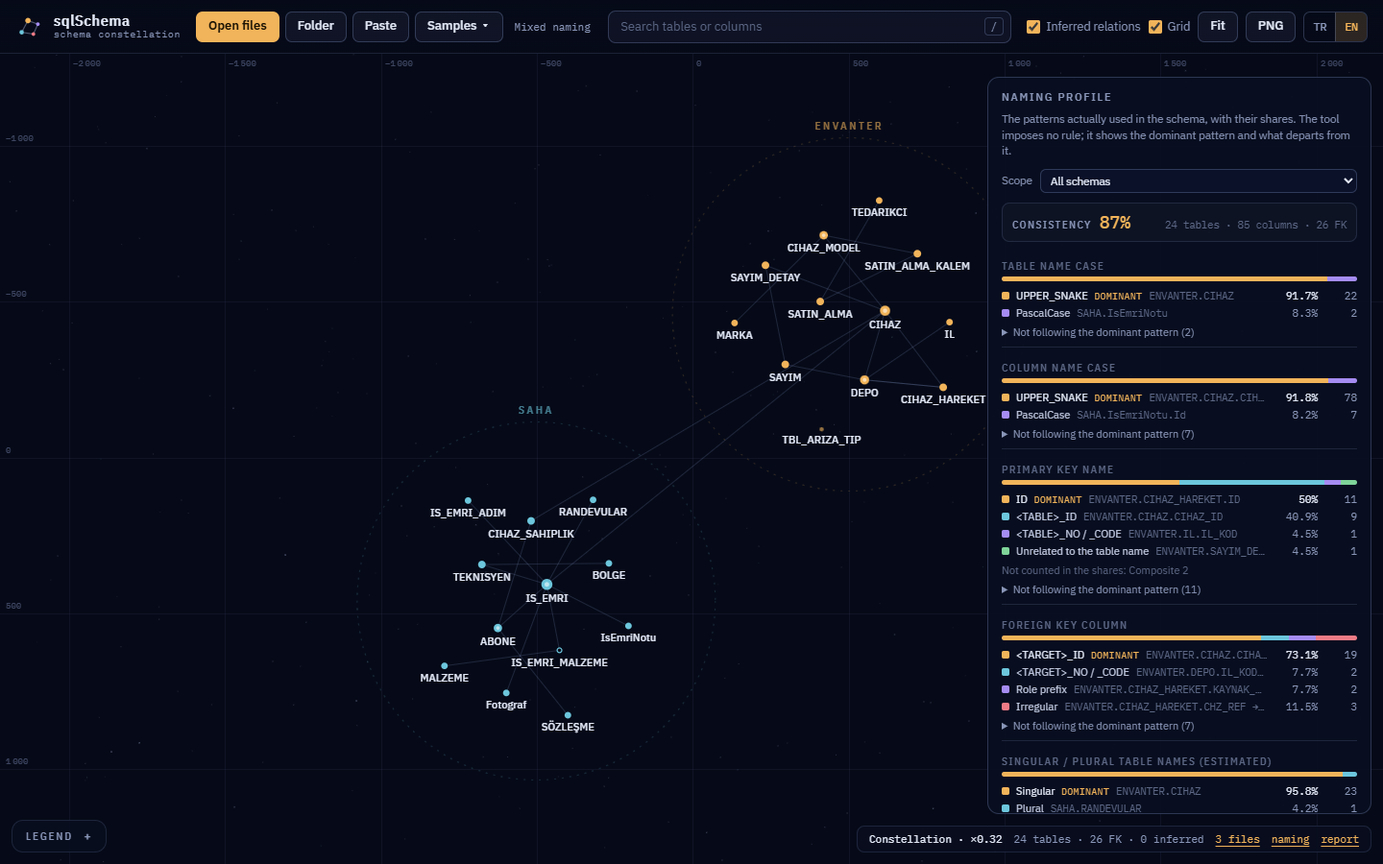
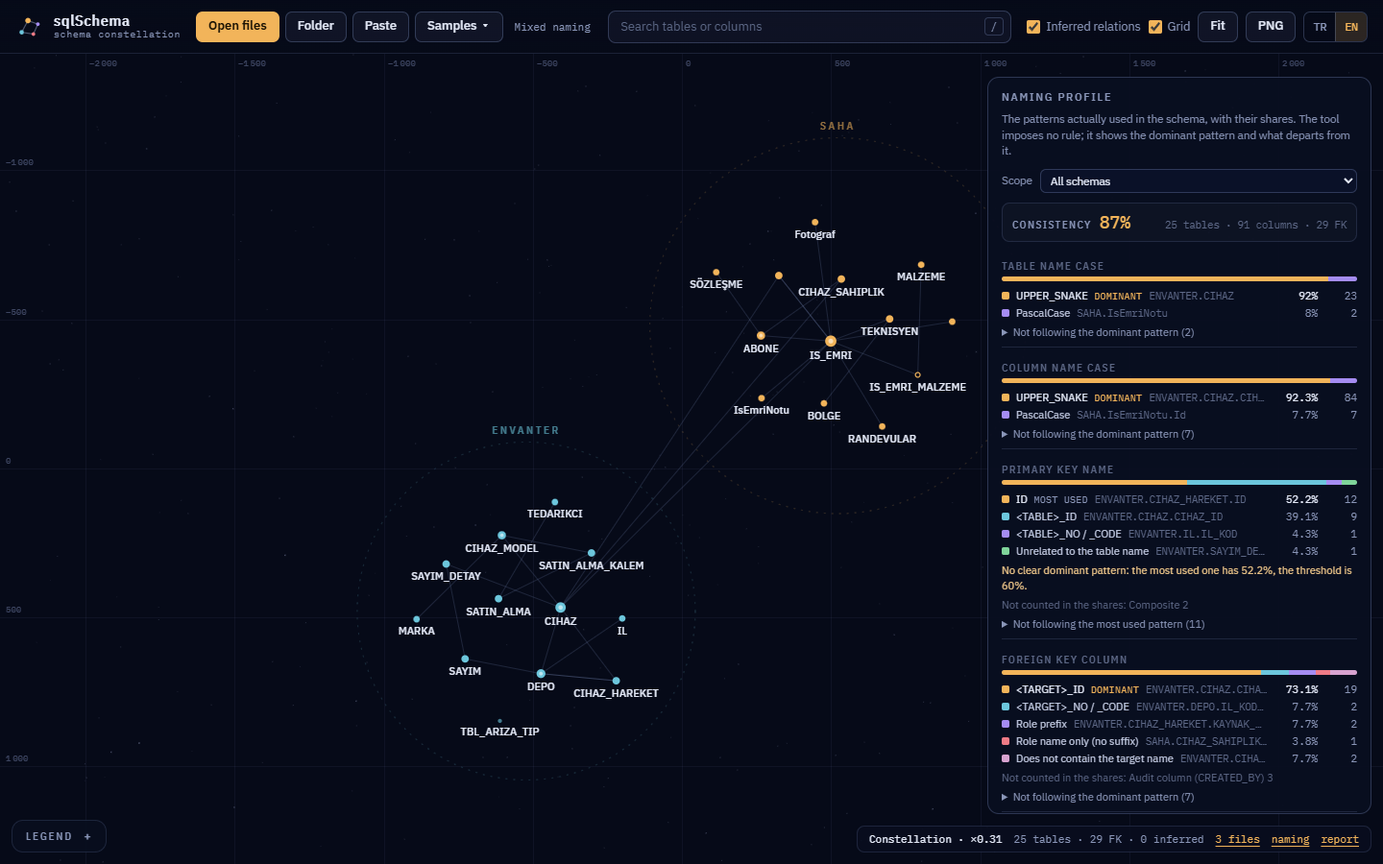
Adlandırma profili: denetim kolonları, rol adları, baskınlık eşiği
- CREATED_BY, UPDATED_BY, GUNCELLEYEN gibi denetim kolonları ayrı
  sayılır ve FK oranına katılmaz (kullanıcı geri bildirimi)
- "Kuralsız" grubu ikiye ayrıldı: yalnızca rol adı (SAHIBI) ve hedef
  adını içermeyen (CHZ_REF)
- Hedefin son kelimesini taşıyan FK'ler rol önekli sayılır
  (AGENT_USER_ID → APP_USER); telekomdaki 25 yanlış "kuralsız" gitti
- En çok kullanılan kalıbın payı %60'ın altındaysa "belirgin baskın
  kalıp yok" gösterilir
- Karışık adlandırma örneğine kullanıcı tablosu ve denetim kolonları

diff --git a/js/conventions.js b/js/conventions.js
@@ -7,14 +7,18 @@
  * Boyutlar ve kovalar (sıra, gösterim sırasıdır):
  *   tableCase / columnCase   upperSnake  lowerSnake  pascal  camel  mixed
  *   pkStyle                  id  tableId  tableOther  other  | shared  composite  none (nötr)
- *   fkStyle                  targetId  targetOther  role  samePk  other     (yalnızca tanımlı, tek kolonlu FK)
+ *   fkStyle                  targetId  targetOther  role  samePk  roleOnly  other  | audit (nötr)
+ *                            (yalnızca tanımlı, tek kolonlu FK)
  *   tableNumber              singular  plural
  *   prefix                   plain  prefixed                                (TBL_, T_, tbl...)
  *   charset                  ascii  nonAscii                                (tablo ve kolon adları)
  *   length                   short  long                                    (30 karakter: eski Oracle sınırı)
  *
- * Nötr kovalar orana ve baskınlığa katılmaz: bileşik PK ve üst tablodan gelen PK (1:1) bir
- * adlandırma tercihi değildir, PK'siz tablo ise denetimin konusudur.
+ * Nötr kovalar orana ve baskınlığa katılmaz: bileşik PK, üst tablodan gelen PK (1:1) ve
+ * CREATED_BY gibi denetim kolonları bir adlandırma tercihi değildir, PK'siz tablo ise denetimin konusudur.
+ *
+ * En çok kullanılan kalıbın payı CLEAR_AT'in altındaysa (%51'e %49 gibi) kalıp "baskın" sayılmaz:
+ * clear: false döner ve arayüz "belirgin baskın kalıp yok" der.
  */
 (function (NS) {
 'use strict';
@@ -26,12 +30,21 @@ const norm = s => U(s).replace(/[^\p{L}\p{N}]/gu, '');
 const PREFIX = /^(TBL|TB|TAB|T)_|^tbl(?=\p{Lu})/iu;
 const OTHER_SUFFIX = /(NO|NUM|NR|KOD|KODU|CODE|CD|KEY|REF)$/;
 const NAME_LIMIT = 30;
+const CLEAR_AT = 0.6;
+
+// Kaydı kimin açtığını / değiştirdiğini tutan kolonlar: hedef tablo adı geçmese de yerleşik bir kalıptır
+const TR_FOLD = { '\xC7': 'C', '\u{11E}': 'G', '\u{130}': 'I', '\xD6': 'O', '\u{15E}': 'S', '\xDC': 'U' };
+const AUDIT = new RegExp([
+  '^(CREATED|CREATE|CREATOR|CRE|UPDATED|UPDATE|UPDATER|UPD|MODIFIED|MODIFY|CHANGED|INSERTED|INSERT|INS|LASTUPDATED|LASTMODIFIED|LASTCHANGED|DELETED|APPROVED)(BY|BYUSER|USER|USR)(ID|NO|CODE)?$',
+  '^(KAYITKULLANICI|KAYITEDEN|KAYDEDEN|EKLEYEN|OLUSTURAN|GUNCELLEYEN|SONGUNCELLEYEN|DEGISTIREN|SILEN|ONAYLAYAN)(KULLANICI)?(ID|NO|KOD|SICIL|SICILNO)?$',
+].join('|'));
+const isAudit = col => AUDIT.test(norm(col).replace(/[\xC7\u{11E}\u{130}\xD6\u{15E}\xDC]/gu, ch => TR_FOLD[ch]));
 
 const DIMS = {
   tableCase: { keys: ['upperSnake', 'lowerSnake', 'pascal', 'camel', 'mixed'] },
   columnCase: { keys: ['upperSnake', 'lowerSnake', 'pascal', 'camel', 'mixed'] },
   pkStyle: { keys: ['id', 'tableId', 'tableOther', 'other', 'shared', 'composite', 'none'], neutral: ['shared', 'composite', 'none'] },
-  fkStyle: { keys: ['targetId', 'targetOther', 'role', 'samePk', 'other'] },
+  fkStyle: { keys: ['targetId', 'targetOther', 'role', 'samePk', 'roleOnly', 'other', 'audit'], neutral: ['audit'] },
   tableNumber: { keys: ['singular', 'plural'] },
   prefix: { keys: ['plain', 'prefixed'] },
   charset: { keys: ['ascii', 'nonAscii'] },
@@ -73,9 +86,17 @@ function nameForms(name) {
   return [...forms].filter(Boolean);
 }
 
+// Tablo adının son kelimeleri: rol önekli FK'lerde hedefin yalnızca son kelimesi geçer (AGENT_USER_ID → APP_USER)
+function tailsOf(name) {
+  const words = String(name).replace(PREFIX, '').split(/_|(?=\p{Lu}\p{Ll})/u).filter(Boolean);
+  const tails = [];
+  for (let i = 1; i < words.length; i++) tails.push(...nameForms(words.slice(i).join('_')));
+  return tails.filter(f => f.length >= 3);
+}
+
 // Kolon adının kalıbı: tablo adı + ID / NO / KOD..., rol önekli hâli ya da hiçbiri.
 // Tablo adının son kelimeleri de kabul edilir: HASAR_DOSYA.DOSYA_NO, TROUBLE_TICKET.TICKET_ID
-function stemMatch(col, forms) {
+function stemMatch(col, forms, tails = []) {
   const c = norm(col);
   let suffix = null, stem = null;
   if (/ID$/.test(c) && c.length > 2) { suffix = 'id'; stem = c.slice(0, -2); }
@@ -83,9 +104,9 @@ function stemMatch(col, forms) {
     const m = OTHER_SUFFIX.exec(c);
     if (m && c.length > m[1].length) { suffix = 'other'; stem = c.slice(0, -m[1].length); }
   }
-  if (!stem) return null;
+  if (!stem) return null;   // anahtar eki yok (SAHIBI, ASSIGNED_TO)
   if (forms.some(f => f === stem || (stem.length >= 3 && f.endsWith(stem)))) return { suffix, stem, exact: true };
-  if (forms.some(f => f.length >= 3 && stem.endsWith(f))) return { suffix, stem, exact: false };
+  if (forms.concat(tails).some(f => f.length >= 3 && stem.endsWith(f))) return { suffix, stem, exact: false };
   return { suffix, stem, exact: null };
 }
 
@@ -105,21 +126,24 @@ function pkStyleOf(tb) {
 
 function fkStyleOf(r) {
   const col = r.cols[0], parent = r.parent;
-  const m = stemMatch(col, nameForms(parent.name));
+  if (isAudit(col)) return 'audit';
+  const m = stemMatch(col, nameForms(parent.name), tailsOf(parent.name));
   if (m && m.exact) return m.suffix === 'id' ? 'targetId' : 'targetOther';
   // kendine başvuran kolonda rol adı olağandır: PARENT_ID, MANAGER_ID, UST_BIRIM_ID
   if ((m && m.exact === false) || (m && r.self)) return 'role';
   if (parent.pk.length === 1 && U(parent.pk[0]) === U(col)) return 'samePk';
-  return 'other';
+  // anahtar eki yoksa ad yalnızca rolü söyler (SAHIBI → ABONE); ek varken hedef tutmuyorsa kuralsızdır (CHZ_REF → CIHAZ)
+  return m ? 'other' : 'roleOnly';
 }
 
 /*
- * opts.filter: tablo → boolean (ör. tek bir şema). Dönen nesne:
- *   { tables, columns, fks, score, dims: [{ id, total, dominant, share, buckets: [{ key, n, pct, neutral, items }], outliers }] }
+ * opts.filter: tablo → boolean (ör. tek bir şema); opts.clearAt: belirgin baskınlık eşiği (0.6). Dönen nesne:
+ *   { tables, columns, fks, score, clearAt, dims: [{ id, total, dominant, share, clear, buckets: [{ key, n, pct, neutral, items }], outliers }] }
  * items: [{ t: tablo, c: kolon adı | null, ref: hedef tablo (FK için) }]
  */
 function namingProfile(model, opts = {}) {
   const keep = opts.filter || (() => true);
+  const clearAt = opts.clearAt || CLEAR_AT;
   // Dış ve gömülü tablolar dosyada tanımlı değil; MongoDB'de _id ve ref alanları adlandırma tercihi değildir
   const tables = model.tables.filter(tb => !tb.external && !tb.embedded && keep(tb));
   const sqlTables = tables.filter(tb => tb.dialect !== 'mongodb');
@@ -162,13 +186,14 @@ function namingProfile(model, opts = {}) {
     let dom = null;
     for (const b of counted) if (b.n && (!dom || b.n > dom.n)) dom = b;
     const outliers = dom ? counted.filter(b => b !== dom).flatMap(b => b.items) : [];
-    dims.push({ id, total, dominant: dom ? dom.key : null, share: dom ? dom.n / total : null, buckets, outliers });
+    const share = dom ? dom.n / total : null;
+    dims.push({ id, total, dominant: dom ? dom.key : null, share, clear: dom ? share >= clearAt : false, buckets, outliers });
   }
   // Tutarlılık: her boyutta baskın kalıba uyanların oranının ortalaması (boş boyutlar hariç)
   const scored = dims.filter(d => d.total);
   const score = scored.length ? Math.round(scored.reduce((s, d) => s + d.share, 0) / scored.length * 100) : null;
-  return { tables: tables.length, columns, fks, score, dims, nameLimit: NAME_LIMIT };
+  return { tables: tables.length, columns, fks, score, dims, nameLimit: NAME_LIMIT, clearAt };
 }
 
-Object.assign(NS, { namingProfile, caseOf, isPlural, pkStyleOf, fkStyleOf });
+Object.assign(NS, { namingProfile, caseOf, isPlural, isAudit, pkStyleOf, fkStyleOf });
 })(globalThis.sqlSchema = globalThis.sqlSchema || {});

diff --git a/tests/run.js b/tests/run.js
@@ -82,6 +82,8 @@ const EXPECT = {
     check('telekom: 350+ FK', m.stats.fk >= 350, m.stats.fk);
     check('telekom: PL/SQL paketi atlandı', m.stats.skipped.some(([k]) => k === 'CREATE PACKAGE'));
     check('telekom: CRM takımyıldızlara bölündü', m.tables.find(t => t.schema === 'CRM').schemaRef.groups.length > 1);
+    const fk = dim(NS.namingProfile(m), 'fkStyle');
+    check('telekom: AGENT_USER_ID → APP_USER rol önekli sayılır, hedef adını içermeyen FK yok', !fk.other && fk.role >= 50 && fk.audit === 2, fk);
   },
   'telekom-bolunmus'({ model: m }, all) {
     const one = all.telekom.model.stats;
@@ -173,14 +175,18 @@ const EXPECT = {
   },
   karisik({ model: m }) {
     const p = NS.namingProfile(m);
-    check('karisik: 24 tablo, 26 FK', p.tables === 24 && p.fks === 26, [p.tables, p.fks]);
-    check('karisik: PK %50 ID, %40.9 <TABLO>_ID', same(dim(p, 'pkStyle'), { id: 11, tableId: 9, tableOther: 1, other: 1, composite: 2 }), dim(p, 'pkStyle'));
-    check('karisik: PK baskın stil ID', p.dims.find(d => d.id === 'pkStyle').dominant === 'id');
-    check('karisik: FK stilleri', same(dim(p, 'fkStyle'), { targetId: 19, targetOther: 2, role: 2, other: 3 }), dim(p, 'fkStyle'));
-    const irregular = p.dims.find(d => d.id === 'fkStyle').buckets.find(b => b.key === 'other').items.map(i => i.c).sort();
-    check('karisik: kuralsız FK\'ler bulundu', same(irregular, ['CHZ_REF', 'DEVICE_REF', 'SAHIBI']), irregular);
-    check('karisik: ORM tabloları PascalCase', same(dim(p, 'tableCase'), { upperSnake: 22, pascal: 2 }) && dim(p, 'columnCase').pascal === 7, [dim(p, 'tableCase'), dim(p, 'columnCase')]);
-    check('karisik: Türkçe çoğul, TBL_ öneki', same(dim(p, 'tableNumber'), { singular: 23, plural: 1 }) && same(dim(p, 'prefix'), { plain: 23, prefixed: 1 }));
+    check('karisik: 25 tablo, 29 FK', p.tables === 25 && p.fks === 29, [p.tables, p.fks]);
+    check('karisik: PK %52 ID, %39 <TABLO>_ID', same(dim(p, 'pkStyle'), { id: 12, tableId: 9, tableOther: 1, other: 1, composite: 2 }), dim(p, 'pkStyle'));
+    const pkDim = p.dims.find(d => d.id === 'pkStyle');
+    check('karisik: PK\'de en çok ID ama belirgin baskın değil (%60 altı)', pkDim.dominant === 'id' && !pkDim.clear, [pkDim.dominant, pkDim.share]);
+    check('karisik: FK stilleri', same(dim(p, 'fkStyle'), { targetId: 19, targetOther: 2, role: 2, roleOnly: 1, other: 2, audit: 3 }), dim(p, 'fkStyle'));
+    check('karisik: FK\'de <HEDEF>_ID belirgin baskın', p.dims.find(d => d.id === 'fkStyle').clear);
+    const fkItems = key => p.dims.find(d => d.id === 'fkStyle').buckets.find(b => b.key === key).items.map(i => i.c).sort();
+    check('karisik: hedef adını içermeyen FK\'ler', same(fkItems('other'), ['CHZ_REF', 'DEVICE_REF']), fkItems('other'));
+    check('karisik: yalnızca rol adı', same(fkItems('roleOnly'), ['SAHIBI']), fkItems('roleOnly'));
+    check('karisik: denetim kolonları orana katılmaz', same(fkItems('audit'), ['CREATED_BY', 'GUNCELLEYEN', 'UPDATED_BY']) && !p.dims.find(d => d.id === 'fkStyle').outliers.some(i => fkItems('audit').includes(i.c)), fkItems('audit'));
+    check('karisik: ORM tabloları PascalCase', same(dim(p, 'tableCase'), { upperSnake: 23, pascal: 2 }) && dim(p, 'columnCase').pascal === 7, [dim(p, 'tableCase'), dim(p, 'columnCase')]);
+    check('karisik: Türkçe çoğul, TBL_ öneki', same(dim(p, 'tableNumber'), { singular: 24, plural: 1 }) && same(dim(p, 'prefix'), { plain: 24, prefixed: 1 }));
     check('karisik: ASCII dışı ve 30+ karakter adlar', dim(p, 'charset').nonAscii === 3 && dim(p, 'length').long === 1, [dim(p, 'charset'), dim(p, 'length')]);
     const env = NS.namingProfile(m, { filter: t => t.schema === 'ENVANTER' }), saha = NS.namingProfile(m, { filter: t => t.schema === 'SAHA' });
     check('karisik: şema bazında ENVANTER <TABLO>_ID, SAHA ID', env.dims.find(d => d.id === 'pkStyle').dominant === 'tableId' && saha.dims.find(d => d.id === 'pkStyle').dominant === 'id');
@@ -223,6 +229,10 @@ const one = sql => build([{ path: 'x.sql', text: sql }]).model;
   const single = ['STATUS', 'ADDRESS', 'ANALYSIS', 'SMS', 'Biller', 'SELLER', 'HANDLER', 'DEALER', 'CUSTOMER', 'MALZEME'];
   const bad = plural.filter(n => !NS.isPlural(n)).concat(single.filter(n => NS.isPlural(n)));
   check('çoğul tahmini', !bad.length, bad);
+  const audit = ['CREATED_BY', 'updated_by', 'createdBy', 'LAST_UPDATED_BY', 'INS_USER', 'CREATED_USER_ID', 'CHANGED_BY_USER_ID', 'KAYIT_KULLANICI', 'GUNCELLEYEN', 'GÜNCELLEYEN', 'OLUŞTURAN_SICIL_NO', 'DEĞİŞTİREN'];
+  const notAudit = ['CUSTOMER_ID', 'KAYIT_TAR', 'CREATED_AT', 'SAHIBI', 'USER_ID', 'KAYIT_NO'];
+  const badAudit = audit.filter(n => !NS.isAudit(n)).concat(notAudit.filter(n => NS.isAudit(n)));
+  check('denetim kolonu tanıma', !badAudit.length, badAudit);
 }
 
 // Dil desteği: iki sözlük aynı anahtarlara sahip, HTML ve kodda kullanılan her anahtar tanımlı

diff --git a/js/ui.js b/js/ui.js
@@ -306,6 +306,10 @@ const schemaKey = s => s.db.name + '|' + s.name;
 const scopeLabel = s => (S.lay.dbs.length > 1 ? s.db.label + ' / ' : '') + schemaLabel(s);
 const fmtPct = n => t('pct', { n: n.toLocaleString(NS.getLang(), { maximumFractionDigits: 1 }) });
 const bucketLabel = (d, b, lim) => t('nk_' + d.id + '_' + b.key, { n: lim });
+// Payı eşiğin altındaysa en çok kullanılan kalıp "baskın" değil, yalnızca "en çok" olarak yazılır
+const topWord = d => t(d.clear ? 'namingDominant' : 'namingTop');
+const outliersTitle = d => t(d.clear ? 'namingOutliers' : 'namingOutliersTop', { n: d.outliers.length });
+const noClearNote = (d, p) => t('namingNoClear', { share: fmtPct(Math.round(d.share * 1000) / 10), at: fmtPct(Math.round(p.clearAt * 100)) });
 // Örnek ve sapan adlar: TABLO.KOLON, FK'de hedefle birlikte; şema yalnızca birden fazla şema varsa yazılır
 function itemName(it) {
   const tb = it.t;
@@ -337,13 +341,14 @@ function renderNaming() {
     const rows = counted.map(b => {
       const dom = b.key === d.dominant;
       return `<li class="${dom ? 'dom' : ''}" ${b.items[0] ? `data-go="${esc(b.items[0].t.key)}" data-col="${esc(b.items[0].c || '')}"` : ''}>
-        <i class="sw c${color.get(b.key)}"></i><span class="nl">${esc(bucketLabel(d, b, p.nameLimit))}${dom && counted.length > 1 ? ` <em>${esc(t('namingDominant'))}</em>` : ''}</span>
+        <i class="sw c${color.get(b.key)}"></i><span class="nl">${esc(bucketLabel(d, b, p.nameLimit))}${dom && counted.length > 1 ? ` <em class="${d.clear ? '' : 'weak'}">${esc(topWord(d))}</em>` : ''}</span>
         <span class="ex" title="${esc(itemName(b.items[0]))}">${esc(itemName(b.items[0]))}</span><b>${esc(fmtPct(b.pct))}</b><b>${b.n}</b></li>`;
     }).join('');
     const extra = neutral.length ? `<p class="nn">${esc(t('namingNotCounted'))}: ${neutral.map(b => `${esc(bucketLabel(d, b, p.nameLimit))} ${b.n}`).join(' · ')}</p>` : '';
     const MAX = 60;
-    const outs = d.outliers.length ? `<details><summary>${esc(t('namingOutliers', { n: d.outliers.length }))}</summary><ul class="no">${d.outliers.slice(0, MAX).map(it => `<li data-go="${esc(it.t.key)}" data-col="${esc(it.c || '')}" tabindex="0">${esc(itemName(it))}</li>`).join('')}${d.outliers.length > MAX ? `<li class="more">${esc(t('namingMore', { n: d.outliers.length - MAX }))}</li>` : ''}</ul></details>` : '';
-    return `<section class="nd"><h5>${esc(t('nd_' + d.id))}</h5><div class="nbar">${bar}</div><ul class="nb">${rows}</ul>${extra}${outs}</section>`;
+    const mixed = d.clear ? '' : `<p class="nn mixed">${esc(noClearNote(d, p))}</p>`;
+    const outs = d.outliers.length ? `<details><summary>${esc(outliersTitle(d))}</summary><ul class="no">${d.outliers.slice(0, MAX).map(it => `<li data-go="${esc(it.t.key)}" data-col="${esc(it.c || '')}" tabindex="0">${esc(itemName(it))}</li>`).join('')}${d.outliers.length > MAX ? `<li class="more">${esc(t('namingMore', { n: d.outliers.length - MAX }))}</li>` : ''}</ul></details>` : '';
+    return `<section class="nd"><h5>${esc(t('nd_' + d.id))}</h5><div class="nbar">${bar}</div><ul class="nb">${rows}</ul>${mixed}${extra}${outs}</section>`;
   }).join('');
   el.innerHTML = `
     <h4>${esc(t('namingTitle'))}</h4>
@@ -382,13 +387,14 @@ function namingMarkdown() {
     if (!d.total) { out.push(t(d.id === 'fkStyle' ? 'namingNoFk' : d.id === 'pkStyle' ? 'namingNoPk' : 'namingEmpty'), ''); continue; }
     out.push(`| ${t('namingPattern')} | ${t('namingShare')} | ${t('namingCount')} | ${t('namingExample')} |`, '|---|---:|---:|---|');
     for (const b of d.buckets.filter(x => !x.neutral && x.n)) {
-      const dom = b.key === d.dominant && d.buckets.filter(x => !x.neutral && x.n).length > 1 ? ` (${t('namingDominant')})` : '';
+      const dom = b.key === d.dominant && d.buckets.filter(x => !x.neutral && x.n).length > 1 ? ` (${topWord(d)})` : '';
       out.push(`| ${cell(bucketLabel(d, b, p.nameLimit))}${dom} | ${fmtPct(b.pct)} | ${b.n} | ${code(itemName(b.items[0]))} |`);
     }
     out.push('');
+    if (!d.clear) out.push(noClearNote(d, p), '');
     const neutral = d.buckets.filter(b => b.neutral && b.n);
     if (neutral.length) out.push(`${t('namingNotCounted')}: ${neutral.map(b => `${bucketLabel(d, b, p.nameLimit)} ${b.n}`).join(' · ')}`, '');
-    if (d.outliers.length) out.push(`**${t('namingOutliers', { n: d.outliers.length })}:** ${d.outliers.map(it => code(itemName(it))).join(', ')}`, '');
+    if (d.outliers.length) out.push(`**${outliersTitle(d)}:** ${d.outliers.map(it => code(itemName(it))).join(', ')}`, '');
   }
   return out.join('\n');
 }

diff --git a/js/i18n.js b/js/i18n.js
@@ -126,7 +126,10 @@ const DICT = {
     namingScoreTitle: 'Her boyutta baskın kalıba uyan adların ortalama oranı',
     namingCounts: v => `${v.tables} tablo · ${v.columns} kolon · ${v.fks} FK`,
     namingDominant: 'baskın',
+    namingTop: 'en çok',
+    namingNoClear: v => `Belirgin baskın kalıp yok: en çok kullanılanın payı ${v.share}, eşik ${v.at}.`,
     namingOutliers: v => `Baskın kalıba uymayanlar (${v.n})`,
+    namingOutliersTop: v => `En çok kullanılana uymayanlar (${v.n})`,
     namingMore: v => `+${v.n} daha`,
     namingEmpty: 'Bu kapsamda ölçülecek ad yok.',
     namingNoFk: 'Tanımlı tek kolonlu FK yok; tahmini ilişkiler sayılmaz.',
@@ -149,7 +152,8 @@ const DICT = {
     nk_columnCase_upperSnake: 'BÜYÜK_HARF', nk_columnCase_lowerSnake: 'küçük_harf', nk_columnCase_pascal: 'PascalCase', nk_columnCase_camel: 'camelCase', nk_columnCase_mixed: 'Karışık',
     nk_pkStyle_id: 'ID', nk_pkStyle_tableId: '<TABLO>_ID', nk_pkStyle_tableOther: '<TABLO>_NO / _KOD', nk_pkStyle_other: 'Tablo adıyla ilgisiz',
     nk_pkStyle_shared: 'Üst tablodan gelen (1:1)', nk_pkStyle_composite: 'Bileşik', nk_pkStyle_none: 'PK yok',
-    nk_fkStyle_targetId: '<HEDEF>_ID', nk_fkStyle_targetOther: '<HEDEF>_NO / _KOD', nk_fkStyle_role: 'Rol önekli', nk_fkStyle_samePk: 'Hedefin PK adıyla aynı', nk_fkStyle_other: 'Kuralsız',
+    nk_fkStyle_targetId: '<HEDEF>_ID', nk_fkStyle_targetOther: '<HEDEF>_NO / _KOD', nk_fkStyle_role: 'Rol önekli', nk_fkStyle_samePk: 'Hedefin PK adıyla aynı',
+    nk_fkStyle_roleOnly: 'Yalnızca rol adı (ek yok)', nk_fkStyle_other: 'Hedef adını içermiyor', nk_fkStyle_audit: 'Denetim kolonu (CREATED_BY)',
     nk_tableNumber_singular: 'Tekil', nk_tableNumber_plural: 'Çoğul',
     nk_prefix_plain: 'Öneksiz', nk_prefix_prefixed: 'Önekli (TBL_, T_)',
     nk_charset_ascii: 'Yalnızca ASCII', nk_charset_nonAscii: 'Türkçe / ASCII dışı',
@@ -296,7 +300,10 @@ const DICT = {
     namingScoreTitle: 'Average share of names that follow the dominant pattern in each dimension',
     namingCounts: v => `${plural(v.tables, 'table', 'tables')} · ${plural(v.columns, 'column', 'columns')} · ${v.fks} FK`,
     namingDominant: 'dominant',
+    namingTop: 'most used',
+    namingNoClear: v => `No clear dominant pattern: the most used one has ${v.share}, the threshold is ${v.at}.`,
     namingOutliers: v => `Not following the dominant pattern (${v.n})`,
+    namingOutliersTop: v => `Not following the most used pattern (${v.n})`,
     namingMore: v => `+${v.n} more`,
     namingEmpty: 'Nothing to measure in this scope.',
     namingNoFk: 'No declared single-column foreign keys; inferred relationships are not counted.',
@@ -319,7 +326,8 @@ const DICT = {
     nk_columnCase_upperSnake: 'UPPER_SNAKE', nk_columnCase_lowerSnake: 'lower_snake', nk_columnCase_pascal: 'PascalCase', nk_columnCase_camel: 'camelCase', nk_columnCase_mixed: 'Mixed',
     nk_pkStyle_id: 'ID', nk_pkStyle_tableId: '<TABLE>_ID', nk_pkStyle_tableOther: '<TABLE>_NO / _CODE', nk_pkStyle_other: 'Unrelated to the table name',
     nk_pkStyle_shared: 'Inherited from parent (1:1)', nk_pkStyle_composite: 'Composite', nk_pkStyle_none: 'No PK',
-    nk_fkStyle_targetId: '<TARGET>_ID', nk_fkStyle_targetOther: '<TARGET>_NO / _CODE', nk_fkStyle_role: 'Role prefix', nk_fkStyle_samePk: 'Same as the target PK', nk_fkStyle_other: 'Irregular',
+    nk_fkStyle_targetId: '<TARGET>_ID', nk_fkStyle_targetOther: '<TARGET>_NO / _CODE', nk_fkStyle_role: 'Role prefix', nk_fkStyle_samePk: 'Same as the target PK',
+    nk_fkStyle_roleOnly: 'Role name only (no suffix)', nk_fkStyle_other: 'Does not contain the target name', nk_fkStyle_audit: 'Audit column (CREATED_BY)',
     nk_tableNumber_singular: 'Singular', nk_tableNumber_plural: 'Plural',
     nk_prefix_plain: 'No prefix', nk_prefix_prefixed: 'Prefixed (TBL_, T_)',
     nk_charset_ascii: 'ASCII only', nk_charset_nonAscii: 'Turkish / non-ASCII',

diff --git a/tools/specs/karisik.js b/tools/specs/karisik.js
@@ -1,7 +1,8 @@
 /*
  * Karışık adlandırma — iki ekibin yıllar içinde aynı veritabanına farklı alışkanlıklarla tablo eklediği bir Oracle şeması.
  * ENVANTER eski ekibin işi: PK <TABLO>_ID. SAHA yeni ekibin işi: PK ID. Arada kısaltılmış (CHZ_REF),
- * İngilizce (DEVICE_REF) ve kuralsız (SAHIBI) FK kolonları, rol önekli FK'ler, TBL_ öneki, Türkçe çoğul,
+ * İngilizce (DEVICE_REF) ve yalnızca rol adı taşıyan (SAHIBI) FK kolonları, rol önekli FK'ler,
+ * kullanıcıya bağlı denetim kolonları (CREATED_BY, GUNCELLEYEN), TBL_ öneki, Türkçe çoğul,
  * bir ORM'in tırnakla açtığı PascalCase tablolar, Türkçe karakterli ve 30 karakteri aşan adlar var.
  * Adlandırma profilinin testidir: tests/run.js buradaki oranları birebir bekler.
  */
@@ -15,7 +16,7 @@ const RULES = [
 
 const SPEC = `
 # ENVANTER: eski ekip, PK <TABLO>_ID
-ENVANTER.CIHAZ | Sahadaki her fiziksel cihaz (modem, ONT, set üstü kutu) | CIHAZ_ID pk; SERI_NO nn uq; CIHAZ_MODEL_ID >CIHAZ_MODEL; DEPO_ID >DEPO; DURUM_KOD; ALIS_TAR; SON_BAKIM_YAPAN_TEKNISYEN_SICIL_NO
+ENVANTER.CIHAZ | Sahadaki her fiziksel cihaz (modem, ONT, set üstü kutu) | CIHAZ_ID pk; SERI_NO nn uq; CIHAZ_MODEL_ID >CIHAZ_MODEL; DEPO_ID >DEPO; DURUM_KOD; ALIS_TAR; SON_BAKIM_YAPAN_TEKNISYEN_SICIL_NO; GUNCELLEYEN:id >SAHA.KULLANICI
 ENVANTER.CIHAZ_MODEL | | CIHAZ_MODEL_ID pk; MARKA_ID nn >MARKA; MODEL_ADI nn
 ENVANTER.MARKA | | MARKA_ID pk; MARKA_ADI nn
 ENVANTER.DEPO | Ana depo ve bölge depoları | DEPO_ID pk; DEPO_ADI nn; IL_KOD >IL
@@ -32,7 +33,8 @@ ENVANTER.SAYIM_DETAY | | NO:id pk; SAYIM_ID nn >SAYIM; CIHAZ_ID nn >CIHAZ; BULUN
 SAHA.TEKNISYEN | | ID pk; AD_SOYAD nn; SICIL_NO uq; BOLGE_ID >BOLGE
 SAHA.BOLGE | | ID pk; BOLGE_ADI nn
 SAHA.ABONE | Saha ekibinin kendi abone kopyası; eski alışkanlıkla açılmış | ABONE_ID pk; AD_SOYAD nn; TCKN:str(11)
-SAHA.IS_EMRI | Kurulum, arıza ve söküm iş emirleri | ID pk; ABONE_ID nn >ABONE; CIHAZ_ID >ENVANTER.CIHAZ; TEKNISYEN_ID >TEKNISYEN; ACILIS_TAR nn; DURUM:str(20) nn
+SAHA.KULLANICI | Uygulama kullanıcıları | ID pk; KULLANICI_ADI:str(50) nn uq; AD_SOYAD nn
+SAHA.IS_EMRI | Kurulum, arıza ve söküm iş emirleri | ID pk; ABONE_ID nn >ABONE; CIHAZ_ID >ENVANTER.CIHAZ; TEKNISYEN_ID >TEKNISYEN; ACILIS_TAR nn; DURUM:str(20) nn; CREATED_BY:id nn >KULLANICI; UPDATED_BY:id >KULLANICI
 SAHA.IS_EMRI_ADIM | | ID pk; IS_EMRI_ID nn >IS_EMRI; SIRA:smallint nn; ACIKLAMA:str(400)
 SAHA.RANDEVULAR | | ID pk; IS_EMRI_ID nn >IS_EMRI; BASLANGIC_TAR nn; BITIS_TAR
 SAHA.MALZEME | | ID pk; MALZEME_ADI nn; BIRIM:str(10)

diff --git a/style.css b/style.css
@@ -474,12 +474,15 @@ body:not(.loaded) .legend, body:not(.loaded) .hud { display: none; }
 .naming-pop .c2 { background: #a58cf2; }
 .naming-pop .c3 { background: #7fd49a; }
 .naming-pop .c4 { background: var(--rose); }
+.naming-pop .c5 { background: #d8a3d0; }
 .report ul.nb li { display: grid; grid-template-columns: 8px minmax(0, auto) minmax(0, 1fr) 46px 34px; align-items: center; gap: 7px; padding: 2px 0; font-family: var(--sans); cursor: pointer; }
 .nb li:hover .ex { color: var(--text); }
 .nb .sw { width: 8px; height: 8px; border-radius: 2px; }
 .nb .nl { white-space: nowrap; color: var(--text); }
 .nb .nl em { font: normal 9.5px var(--mono); color: var(--accent); margin-left: 4px; text-transform: uppercase; letter-spacing: 0.06em; }
+.nb .nl em.weak { color: var(--dim); }
 .nb li:not(.dom) .nl { color: #c3cbe2; }
+.naming-pop .nn.mixed { color: #f0c88a; }
 .nb .ex { overflow: hidden; text-overflow: ellipsis; white-space: nowrap; font: 10.5px var(--mono); color: var(--faint); }
 .report .nb li b { text-align: right; font-family: var(--mono); }
 .report .nb li.dom b:first-of-type { color: var(--text); }

diff --git a/README.md b/README.md
@@ -228,11 +228,12 @@ Ekipte yazılı bir adlandırma standardı yoksa ilk adım, şemada fiilen ne ku
 |---|---|
 | Tablo ve kolon adı harf düzeni | `BÜYÜK_HARF`, `küçük_harf`, `PascalCase`, `camelCase` |
 | Birincil anahtar adı | `ID`, `<TABLO>_ID`, `<TABLO>_NO / _KOD`, tablo adıyla ilgisiz |
-| Yabancı anahtar kolonu | `<HEDEF>_ID`, `<HEDEF>_NO / _KOD`, rol önekli (`GONDEREN_MUSTERI_ID`), hedefin PK adıyla aynı, kuralsız (`CHZ_REF`) |
+| Yabancı anahtar kolonu | `<HEDEF>_ID`, `<HEDEF>_NO / _KOD`, rol önekli (`GONDEREN_MUSTERI_ID`, `AGENT_USER_ID → APP_USER`), hedefin PK adıyla aynı, yalnızca rol adı (`SAHIBI`), hedef adını içermeyen (`CHZ_REF`) |
 | Tablo adı | tekil / çoğul (tahmini), `TBL_` gibi önekler |
 | Karakterler ve uzunluk | Türkçe / ASCII dışı karakter, 30 karakteri aşan adlar |
 
 - Her boyutta **baskın kalıp** ve ona **uymayanlar** listelenir. Listedeki bir ada tıklamak tabloyu seçer.
+- En çok kullanılan kalıbın payı %60'ın altındaysa "baskın" denmez; pencere **belirgin baskın kalıp yok** uyarısı gösterir. %51'e %49 gibi bir dağılım, şemada iki ayrı alışkanlık olduğunu söyler.
 - **Kapsam** seçimiyle profil tek bir şema için hesaplanır. Böylece hangi modülün hangi alışkanlıkla yazıldığı ayrılır.
 - **Tutarlılık** puanı, her boyutta baskın kalıba uyan adların ortalama oranıdır.
 - **Markdown indir** profili ekiple paylaşmak için bir dosyaya yazar.
@@ -241,6 +242,7 @@ Araç bir kural dayatmaz: `ID` mi `<TABLO>_ID` mi doğru, buna ekip karar verir.
 
 **Orana katılmayanlar:**
 - Bileşik PK'ler, PK'si üst tablodan gelen 1:1 tablolar ve PK'siz tablolar. Bunlar ayrıca gösterilir.
+- `CREATED_BY`, `UPDATED_BY`, `GUNCELLEYEN`, `KAYIT_KULLANICI` gibi denetim kolonları. Kullanıcı tablosuna bağlı olsalar da kendi yerleşik kalıpları vardır; ayrıca sayılırlar.
 - Tahmini ilişkiler: zaten ada dayandıkları için yalnızca tanımlı FK'ler sayılır.
 - MongoDB koleksiyonlarının `_id` ve `ref` alanları.
 
@@ -596,11 +598,12 @@ When a team has no written naming standard, the first step is to see what the sc
 |---|---|
 | Table and column name case | `UPPER_SNAKE`, `lower_snake`, `PascalCase`, `camelCase` |
 | Primary key name | `ID`, `<TABLE>_ID`, `<TABLE>_NO / _CODE`, unrelated to the table name |
-| Foreign key column | `<TARGET>_ID`, `<TARGET>_NO / _CODE`, role prefix (`SENDER_CUSTOMER_ID`), same as the target PK, irregular (`CHZ_REF`) |
+| Foreign key column | `<TARGET>_ID`, `<TARGET>_NO / _CODE`, role prefix (`SENDER_CUSTOMER_ID`, `AGENT_USER_ID → APP_USER`), same as the target PK, role name only (`OWNER`), not containing the target name (`CHZ_REF`) |
 | Table name | singular / plural (estimated), prefixes such as `TBL_` |
 | Characters and length | Turkish / non-ASCII characters, names longer than 30 characters |
 
 - Each dimension lists the **dominant pattern** and the names that **do not follow it**. Clicking a name selects its table.
+- If the most used pattern has less than 60%, it is not called dominant; the window shows **no clear dominant pattern**. A 51% to 49% split means the schema has two separate habits.
 - **Scope** computes the profile for a single schema, which separates the habits of different modules.
 - The **consistency** score is the average share of names that follow the dominant pattern in each dimension.
 - **Download Markdown** writes the profile to a file to share with the team.
@@ -609,6 +612,7 @@ The tool imposes no rule: whether `ID` or `<TABLE>_ID` is right is the team's de
 
 **Not counted in the shares:**
 - Composite PKs, 1:1 tables whose PK comes from the parent, and tables without a PK. These are shown separately.
+- Audit columns such as `CREATED_BY`, `UPDATED_BY`, `GUNCELLEYEN` and `KAYIT_KULLANICI`. They point to the user table but follow their own established pattern; they are counted separately.
 - Inferred relationships: only declared FKs are counted, because inferred ones are already based on names.
 - The `_id` and `ref` fields of MongoDB collections.
 

diff --git a/CHANGELOG.md b/CHANGELOG.md
@@ -5,6 +5,13 @@ This file follows [Keep a Changelog](https://keepachangelog.com/en/1.1.0/) and [
 
 ## [Yayımlanmamış · Unreleased]
 
+### Değişti · Changed
+
+- **Adlandırma profili, FK kalıpları:** `CREATED_BY`, `UPDATED_BY`, `GUNCELLEYEN` gibi denetim kolonları ayrı sayılır ve orana katılmaz. "Kuralsız" grubu ikiye ayrıldı: yalnızca rol adı (`SAHIBI`) ve hedef adını içermeyen (`CHZ_REF`). Hedefin son kelimesini taşıyan adlar (`AGENT_USER_ID → APP_USER`) rol önekli sayılır.
+  Naming profile, FK patterns: audit columns such as `CREATED_BY`, `UPDATED_BY` and `GUNCELLEYEN` are counted separately and left out of the shares. The "irregular" group is split into role name only (`OWNER`) and not containing the target name (`CHZ_REF`). Names carrying the target's last word (`AGENT_USER_ID → APP_USER`) count as role prefixed.
+- **Belirgin baskınlık eşiği:** en çok kullanılan kalıbın payı %60'ın altındaysa "baskın" yerine "belirgin baskın kalıp yok" gösterilir.
+  Clear-dominance threshold: when the most used pattern has less than 60%, the profile says "no clear dominant pattern" instead of "dominant".
+
 ## [0.2.0] - 2026-10-28
 
 ### Eklendi · Added
